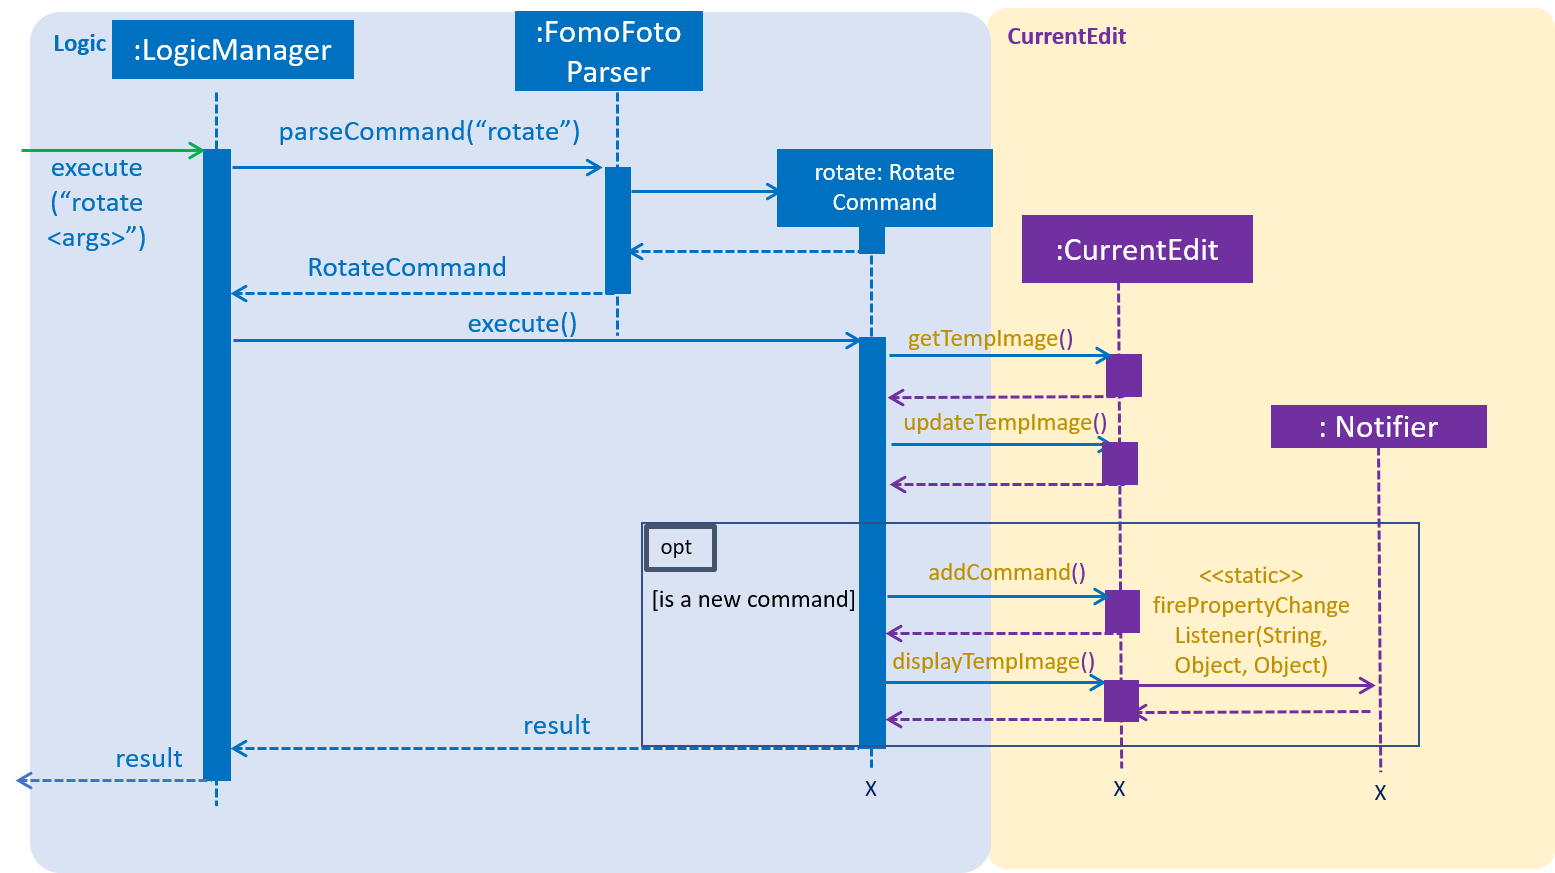
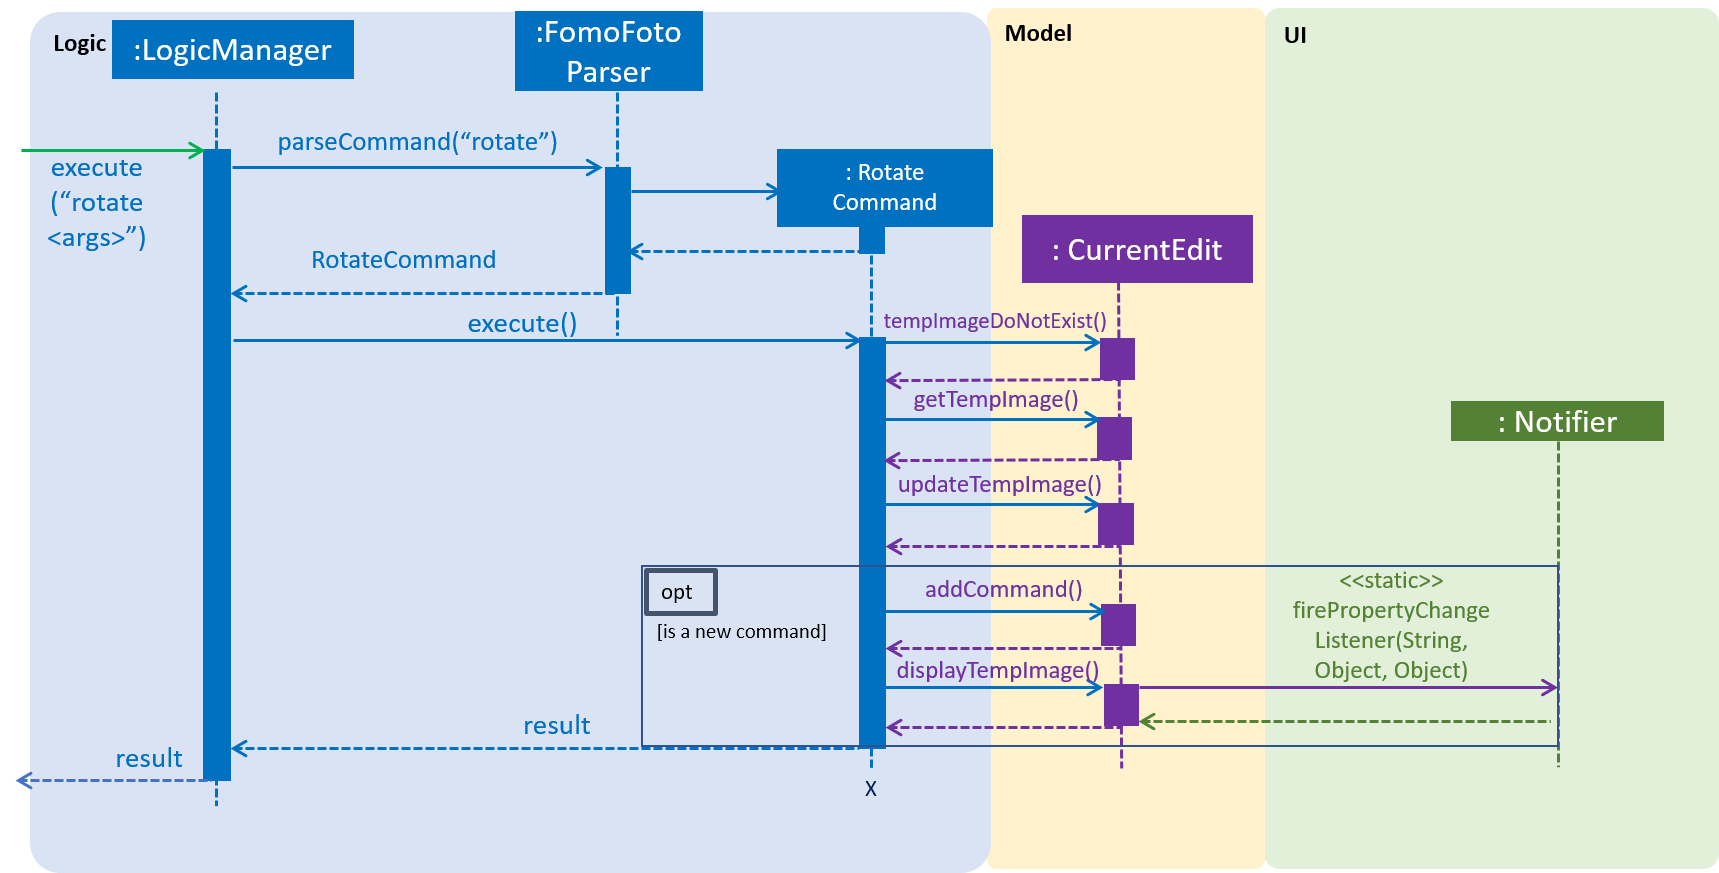
Rebuild pages at df354256378a5ea6b714257be6b3c44e9b145cd6

diff --git a/DeveloperGuide.html b/DeveloperGuide.html
@@ -1327,7 +1327,7 @@ If an invalid command is provided, a reminder of how to use the command will be 
 <p>Step 6. The <code>execute</code> method then checks if the boolean <code>isNewCommand</code> is true. If it is true, it indicates that the command is a new <code>Rotate</code> command called directly from the user and not through an <code>undo/redo</code> command which triggers Step 7 in the line below. Otherwise, the command’s execution ends in this step.</p>
 </div>
 <div class="paragraph">
-<p>Step 7. <code>isNewCommand</code> is set to false to signal that this command is not a new rotate command if it is executed again through the <code>Undo/Redo</code> function. <code>currentEdit#addCommand(this)</code> is invoked to add this command to the <code>List&lt;Command&gt;</code> in <code>tempImage</code> for the <code>undo/redo</code> function and <code>currentEdit#displayTempImage()</code> is used to display the edited image on the graphical user interface.<br></p>
+<p>Step 7. <code>isNewCommand</code> is set to false to signal that this command is not a new rotate command if it is executed again through the <code>undo/redo</code> command. <code>currentEdit#addCommand(this)</code> is invoked to add this command to the <code>List&lt;Command&gt;</code> in <code>tempImage</code> for the <code>undo/redo</code> function and <code>currentEdit#displayTempImage()</code> is used to display the edited image on the graphical user interface.<br></p>
 </div>
 <div class="paragraph">
 <p>The diagram below illustrates how the <code>Rotate</code> Command works:</p>
@@ -1344,7 +1344,7 @@ If an invalid command is provided, a reminder of how to use the command will be 
 <div class="ulist">
 <ul>
 <li>
-<p>Intermediate images have to be stored and edited in a temp directory first due to our <code>undo/redo</code> implementation.</p>
+<p>Images that are still being edited have to be stored and edited in a temp directory first due to our <code>undo/redo</code> implementation.</p>
 </li>
 </ul>
 </div>
@@ -1725,21 +1725,24 @@ Each image can only have 1 watermark. If the user would like to edit the waterma
 <div class="sect3">
 <h4 id="current-implementation-9"><a class="link" href="#current-implementation-9">3.11.1. Current Implementation</a></h4>
 <div class="paragraph">
-<p>The manipulation feature is facilitated by <code>CurrentEdit</code> and <code>Image</code>. It uses the following operations:</p>
+<p>The manipulation feature is facilitated by <code>CurrentEdit</code>. It uses the following operations:</p>
 </div>
 <div class="ulist">
 <ul>
 <li>
-<p><code>CurrentEdit#getTempImage()</code> - Retrieves the temporary image <code>tempImage</code> which stores the filepath of the temporary image in <code>temp</code> directory, its history of edits [<code>List&lt;Command&gt;</code>] and its metadata.</p>
+<p><code>CurrentEdit#tempImageDoNotExist()</code> - Returns <code>true</code> if <code>tempImage</code> in <code>CurrentEdit</code> is null. <code>tempImage</code> is null only if <code>open</code> command is never called.</p>
 </li>
 <li>
-<p><code>CurrenEdit#updateTempImage(BufferedImage)</code> - Replaces the temporary image in <code>temp</code> directory with the newly edited image and update the <code>tempImage</code> instance in the class.</p>
+<p><code>CurrentEdit#getTempImage</code> - Retrieves the temporary image <code>tempImage</code> which stores the filepath of the temporary image in the <code>temp</code> directory, its history of edits [<code>List&lt;Command&gt;</code>] and its metadata.</p>
 </li>
 <li>
-<p><code>CurrentEdit#addCommand(Command)</code> - Adds this command to the edit history [<code>List&lt;Command&gt;</code>] in <code>tempImage</code> for the undo/redo function.</p>
+<p><code>CurrentEdit#updateTempImage</code> - Replaces the temporary image in <code>temp</code> directory with the newly edited image and update the <code>tempImage</code> instance in the class.</p>
 </li>
 <li>
-<p><code>CurrenEdit#displayTempImage()</code> - Displays the temporary image stored in directory: "src/main/resources/temp/".</p>
+<p><code>CurrentEdit#addCommand</code> - Adds this command to the edit history [<code>List&lt;Command&gt;</code>] in <code>tempImage</code> for the <code>undo/redo</code> command.</p>
+</li>
+<li>
+<p><code>CurrentEdit#displayTempImage()</code> - Displays the temporary image stored in the <code>temp</code> directory.</p>
 </li>
 <li>
 <p><code>Image#hasWaterMark()</code> - Checks if the <code>Image</code> already has a watermark.</p>
@@ -1765,7 +1768,7 @@ Each image can only have 1 watermark. If the user would like to edit the waterma
 <i class="fa icon-note" title="Note"></i>
 </td>
 <td class="content">
-If an invalid command is provided, a reminder of how to use the command will be given to the user and no command will be run.
+If an invalid command is provided, a reminder of how to use the command will be given to the user and no command will be executed.
 </td>
 </tr>
 </table>
@@ -1774,7 +1777,7 @@ If an invalid command is provided, a reminder of how to use the command will be 
 <p>Step 3. During execution, the <code>execute</code> method in the <code>WaterMarkCommand</code> class invokes <code>currentEdit#getTempImage()</code> to get the <code>tempImage</code> from the <code>currentEdit</code>.</p>
 </div>
 <div class="paragraph">
-<p>Step 4. Upon retrieving the <code>tempImage</code>, the <code>execute</code> method in the <code>WaterMarkCommand</code> gets the  <code>BufferedImage</code> instance of the <code>tempImage</code> object and copies the <code>BufferedImage</code> object to a temporary <code>BufferedImage</code> object with the same width, height and image type. The <code>execute</code> method then initialises the necessary graphic properties using the <code>Graphics2D</code> Java class. The message is centralised and overlayed on the temporary <code>BufferedImage</code> object.</p>
+<p>Step 4. Upon retrieving the <code>tempImage</code>, the <code>execute</code> method in the <code>WaterMarkCommand</code> gets the  <code>BufferedImage</code> instance of the <code>tempImage</code> object and copies the <code>BufferedImage</code> object to a temporary <code>BufferedImage</code> object with the same width, height and image type. The <code>execute</code> method then initialises the necessary graphic properties using the <code>Graphics2D</code> Java class. The message is centralised and overlays the temporary <code>BufferedImage</code> object.</p>
 </div>
 <div class="paragraph">
 <p>Step 5. The <code>execute</code> method then checks for a few conditions listed below:</p>
@@ -1782,7 +1785,7 @@ If an invalid command is provided, a reminder of how to use the command will be 
 <div class="olist arabic">
 <ol class="arabic">
 <li>
-<p><code>isNewCommand</code>: Checks if the <code>WaterMark</code> command is from an input by the user, from an <code>Undo</code> or <code>Redo</code> command or from a <code>SetPreset</code> command.</p>
+<p><code>isNewCommand</code>: Checks if the <code>WaterMark</code> command is from an input by the user, from an <code>undo/redo</code> command or from a <code>SetPreset</code> command.</p>
 </li>
 <li>
 <p><code>isPreset</code>: Checks if the <code>WaterMark</code> command is from a Preset.</p>
@@ -1805,7 +1808,7 @@ If an invalid command is provided, a reminder of how to use the command will be 
 <p>Invokes <code>initialImage#setWaterMark(True)</code> to indicate that the image has a watermark.<br></p>
 </li>
 <li>
-<p>Invokes <code>currentEdit#updateTempImage()</code> to overwrite the current image in filepath: "src/main/resources/temp/" + <code>tempImage#getUrl</code> with a new <code>BufferedImage</code> object.</p>
+<p>Invokes <code>currentEdit#updateTempImage()</code> to  save the newly edited <code>BufferedImage</code> and replace the previous image in the filepath of the <code>tempImage</code>.</p>
 </li>
 <li>
 <p>Sets <code>isNewCommand</code> to false to signal that this command is not a new rotate command if it is executed again through the <code>undo/redo</code> function.</p>
@@ -1837,7 +1840,7 @@ If an invalid command is provided, a reminder of how to use the command will be 
 <p>Invokes <code>initialImage#setWaterMark(true)</code> to indicate that the image has a watermark.</p>
 </li>
 <li>
-<p>Invokes <code>currentEdit#updateTempImage()</code> to overwrite the current image in filepath: "src/main/resources/temp/" + <code>tempImage#getUrl</code> with a new <code>BufferedImage</code> object.</p>
+<p>Invokes <code>currentEdit#updateTempImage()</code> to save the newly edited <code>BufferedImage</code> and replace the previous image in the filepath of the <code>tempImage</code>.</p>
 </li>
 </ul>
 </div>
@@ -1853,7 +1856,7 @@ If an invalid command is provided, a reminder of how to use the command will be 
 <p>Invokes <code>initialImage#setWaterMark(true)</code> to indicate that the image has a watermark.</p>
 </li>
 <li>
-<p>Invokes <code>currentEdit#updateTempImage()</code> to overwrite the current image in filepath: "src/main/resources/temp/" + <code>tempImage#getUrl</code> with a new <code>BufferedImage</code> object.</p>
+<p>Invokes <code>currentEdit#updateTempImage()</code> to save the newly edited <code>BufferedImage</code> and replace the previous image in the filepath of the <code>tempImage</code>.</p>
 </li>
 </ul>
 </div>
@@ -1885,7 +1888,7 @@ If an invalid command is provided, a reminder of how to use the command will be 
 <div class="ulist">
 <ul>
 <li>
-<p>Intermediate images have to be stored and edited in a temp directory first due to our <code>undo/redo</code> implementation.</p>
+<p>Images that are still being edited have to be stored and edited in a temp directory first due to our <code>undo/redo</code> implementation.</p>
 </li>
 </ul>
 </div>
@@ -2872,4 +2875,4 @@ Expected: GUI should export the selected Album image to target directory.</p>
 </div>
 </div>
 </div>
-</div></div><div id="footer"><div class="container"><div id="footer-text">Last updated 2019-04-14 11:01:47 UTC</div></div></div></body></html>
+</div></div><div id="footer"><div class="container"><div id="footer-text">Last updated 2019-04-14 12:22:21 UTC</div></div></div></body></html>

diff --git a/team/kayheen.html b/team/kayheen.html
@@ -600,7 +600,7 @@ If an invalid command is provided, a reminder of how to use the command will be 
 <p>Step 6. The <code>execute</code> method then checks if the boolean <code>isNewCommand</code> is true. If it is true, it indicates that the command is a new <code>Rotate</code> command called directly from the user and not through an <code>undo/redo</code> command which triggers Step 7 in the line below. Otherwise, the command’s execution ends in this step.</p>
 </div>
 <div class="paragraph">
-<p>Step 7. <code>isNewCommand</code> is set to false to signal that this command is not a new rotate command if it is executed again through the <code>Undo/Redo</code> function. <code>currentEdit#addCommand(this)</code> is invoked to add this command to the <code>List&lt;Command&gt;</code> in <code>tempImage</code> for the <code>undo/redo</code> function and <code>currentEdit#displayTempImage()</code> is used to display the edited image on the graphical user interface.<br></p>
+<p>Step 7. <code>isNewCommand</code> is set to false to signal that this command is not a new rotate command if it is executed again through the <code>undo/redo</code> command. <code>currentEdit#addCommand(this)</code> is invoked to add this command to the <code>List&lt;Command&gt;</code> in <code>tempImage</code> for the <code>undo/redo</code> function and <code>currentEdit#displayTempImage()</code> is used to display the edited image on the graphical user interface.<br></p>
 </div>
 <div class="paragraph">
 <p>The diagram below illustrates how the <code>Rotate</code> Command works:</p>
@@ -617,7 +617,7 @@ If an invalid command is provided, a reminder of how to use the command will be 
 <div class="ulist">
 <ul>
 <li>
-<p>Intermediate images have to be stored and edited in a temp directory first due to our <code>undo/redo</code> implementation.</p>
+<p>Images that are still being edited have to be stored and edited in a temp directory first due to our <code>undo/redo</code> implementation.</p>
 </li>
 </ul>
 </div>
@@ -661,21 +661,24 @@ Each image can only have 1 watermark. If the user would like to edit the waterma
 <div class="sect3">
 <h4 id="current-implementation-2"><a class="link" href="#current-implementation-2">Current Implementation</a></h4>
 <div class="paragraph">
-<p>The manipulation feature is facilitated by <code>CurrentEdit</code> and <code>Image</code>. It uses the following operations:</p>
+<p>The manipulation feature is facilitated by <code>CurrentEdit</code>. It uses the following operations:</p>
 </div>
 <div class="ulist">
 <ul>
 <li>
-<p><code>CurrentEdit#getTempImage()</code> - Retrieves the temporary image <code>tempImage</code> which stores the filepath of the temporary image in <code>temp</code> directory, its history of edits [<code>List&lt;Command&gt;</code>] and its metadata.</p>
+<p><code>CurrentEdit#tempImageDoNotExist()</code> - Returns <code>true</code> if <code>tempImage</code> in <code>CurrentEdit</code> is null. <code>tempImage</code> is null only if <code>open</code> command is never called.</p>
 </li>
 <li>
-<p><code>CurrenEdit#updateTempImage(BufferedImage)</code> - Replaces the temporary image in <code>temp</code> directory with the newly edited image and update the <code>tempImage</code> instance in the class.</p>
+<p><code>CurrentEdit#getTempImage</code> - Retrieves the temporary image <code>tempImage</code> which stores the filepath of the temporary image in the <code>temp</code> directory, its history of edits [<code>List&lt;Command&gt;</code>] and its metadata.</p>
 </li>
 <li>
-<p><code>CurrentEdit#addCommand(Command)</code> - Adds this command to the edit history [<code>List&lt;Command&gt;</code>] in <code>tempImage</code> for the undo/redo function.</p>
+<p><code>CurrentEdit#updateTempImage</code> - Replaces the temporary image in <code>temp</code> directory with the newly edited image and update the <code>tempImage</code> instance in the class.</p>
 </li>
 <li>
-<p><code>CurrenEdit#displayTempImage()</code> - Displays the temporary image stored in directory: "src/main/resources/temp/".</p>
+<p><code>CurrentEdit#addCommand</code> - Adds this command to the edit history [<code>List&lt;Command&gt;</code>] in <code>tempImage</code> for the <code>undo/redo</code> command.</p>
+</li>
+<li>
+<p><code>CurrentEdit#displayTempImage()</code> - Displays the temporary image stored in the <code>temp</code> directory.</p>
 </li>
 <li>
 <p><code>Image#hasWaterMark()</code> - Checks if the <code>Image</code> already has a watermark.</p>
@@ -701,7 +704,7 @@ Each image can only have 1 watermark. If the user would like to edit the waterma
 <i class="fa icon-note" title="Note"></i>
 </td>
 <td class="content">
-If an invalid command is provided, a reminder of how to use the command will be given to the user and no command will be run.
+If an invalid command is provided, a reminder of how to use the command will be given to the user and no command will be executed.
 </td>
 </tr>
 </table>
@@ -710,7 +713,7 @@ If an invalid command is provided, a reminder of how to use the command will be 
 <p>Step 3. During execution, the <code>execute</code> method in the <code>WaterMarkCommand</code> class invokes <code>currentEdit#getTempImage()</code> to get the <code>tempImage</code> from the <code>currentEdit</code>.</p>
 </div>
 <div class="paragraph">
-<p>Step 4. Upon retrieving the <code>tempImage</code>, the <code>execute</code> method in the <code>WaterMarkCommand</code> gets the  <code>BufferedImage</code> instance of the <code>tempImage</code> object and copies the <code>BufferedImage</code> object to a temporary <code>BufferedImage</code> object with the same width, height and image type. The <code>execute</code> method then initialises the necessary graphic properties using the <code>Graphics2D</code> Java class. The message is centralised and overlayed on the temporary <code>BufferedImage</code> object.</p>
+<p>Step 4. Upon retrieving the <code>tempImage</code>, the <code>execute</code> method in the <code>WaterMarkCommand</code> gets the  <code>BufferedImage</code> instance of the <code>tempImage</code> object and copies the <code>BufferedImage</code> object to a temporary <code>BufferedImage</code> object with the same width, height and image type. The <code>execute</code> method then initialises the necessary graphic properties using the <code>Graphics2D</code> Java class. The message is centralised and overlays the temporary <code>BufferedImage</code> object.</p>
 </div>
 <div class="paragraph">
 <p>Step 5. The <code>execute</code> method then checks for a few conditions listed below:</p>
@@ -718,7 +721,7 @@ If an invalid command is provided, a reminder of how to use the command will be 
 <div class="olist arabic">
 <ol class="arabic">
 <li>
-<p><code>isNewCommand</code>: Checks if the <code>WaterMark</code> command is from an input by the user, from an <code>Undo</code> or <code>Redo</code> command or from a <code>SetPreset</code> command.</p>
+<p><code>isNewCommand</code>: Checks if the <code>WaterMark</code> command is from an input by the user, from an <code>undo/redo</code> command or from a <code>SetPreset</code> command.</p>
 </li>
 <li>
 <p><code>isPreset</code>: Checks if the <code>WaterMark</code> command is from a Preset.</p>
@@ -741,7 +744,7 @@ If an invalid command is provided, a reminder of how to use the command will be 
 <p>Invokes <code>initialImage#setWaterMark(True)</code> to indicate that the image has a watermark.<br></p>
 </li>
 <li>
-<p>Invokes <code>currentEdit#updateTempImage()</code> to overwrite the current image in filepath: "src/main/resources/temp/" + <code>tempImage#getUrl</code> with a new <code>BufferedImage</code> object.</p>
+<p>Invokes <code>currentEdit#updateTempImage()</code> to  save the newly edited <code>BufferedImage</code> and replace the previous image in the filepath of the <code>tempImage</code>.</p>
 </li>
 <li>
 <p>Sets <code>isNewCommand</code> to false to signal that this command is not a new rotate command if it is executed again through the <code>undo/redo</code> function.</p>
@@ -773,7 +776,7 @@ If an invalid command is provided, a reminder of how to use the command will be 
 <p>Invokes <code>initialImage#setWaterMark(true)</code> to indicate that the image has a watermark.</p>
 </li>
 <li>
-<p>Invokes <code>currentEdit#updateTempImage()</code> to overwrite the current image in filepath: "src/main/resources/temp/" + <code>tempImage#getUrl</code> with a new <code>BufferedImage</code> object.</p>
+<p>Invokes <code>currentEdit#updateTempImage()</code> to save the newly edited <code>BufferedImage</code> and replace the previous image in the filepath of the <code>tempImage</code>.</p>
 </li>
 </ul>
 </div>
@@ -789,7 +792,7 @@ If an invalid command is provided, a reminder of how to use the command will be 
 <p>Invokes <code>initialImage#setWaterMark(true)</code> to indicate that the image has a watermark.</p>
 </li>
 <li>
-<p>Invokes <code>currentEdit#updateTempImage()</code> to overwrite the current image in filepath: "src/main/resources/temp/" + <code>tempImage#getUrl</code> with a new <code>BufferedImage</code> object.</p>
+<p>Invokes <code>currentEdit#updateTempImage()</code> to save the newly edited <code>BufferedImage</code> and replace the previous image in the filepath of the <code>tempImage</code>.</p>
 </li>
 </ul>
 </div>
@@ -821,11 +824,11 @@ If an invalid command is provided, a reminder of how to use the command will be 
 <div class="ulist">
 <ul>
 <li>
-<p>Intermediate images have to be stored and edited in a temp directory first due to our <code>undo/redo</code> implementation.</p>
+<p>Images that are still being edited have to be stored and edited in a temp directory first due to our <code>undo/redo</code> implementation.</p>
 </li>
 </ul>
 </div>
 </div>
 </div>
 </div>
-</div></div><div id="footer"><div class="container"><div id="footer-text">Last updated 2019-04-14 11:01:47 UTC</div></div></div></body></html>
+</div></div><div id="footer"><div class="container"><div id="footer-text">Last updated 2019-04-14 12:22:22 UTC</div></div></div></body></html>

diff --git a/team/thamsimun.html b/team/thamsimun.html
@@ -474,4 +474,4 @@ If an invalid command is provided, a reminder of how to use the command will be 
 <div class="sectionbody">
 
 </div>
-</div></div><div id="footnotes"><hr><div class="footnote" id="_footnote_1"><a href="#_footnoteref_1">1</a>. Gradle is an open-source build automation tool that is designed to be flexible enough to build almost any type of software.</div></div><div id="footer"><div class="container"><div id="footer-text">Last updated 2019-04-14 11:01:47 UTC</div></div></div></body></html>
+</div></div><div id="footnotes"><hr><div class="footnote" id="_footnote_1"><a href="#_footnoteref_1">1</a>. Gradle is an open-source build automation tool that is designed to be flexible enough to build almost any type of software.</div></div><div id="footer"><div class="container"><div id="footer-text">Last updated 2019-04-14 12:22:22 UTC</div></div></div></body></html>

diff --git a/team/randytqw.html b/team/randytqw.html
@@ -476,4 +476,4 @@ If the <code>index</code> is at index <code>commandHistory.size()</code>, pointi
 <div class="sectionbody">
 
 </div>
-</div></div><div id="footer"><div class="container"><div id="footer-text">Last updated 2019-04-14 11:01:47 UTC</div></div></div></body></html>
+</div></div><div id="footer"><div class="container"><div id="footer-text">Last updated 2019-04-14 12:22:22 UTC</div></div></div></body></html>

diff --git a/LearningOutcomes.html b/LearningOutcomes.html
@@ -549,4 +549,4 @@ When the value represented by the <code>ObservableValue</code> changes, it will 
 </div>
 </div>
 </div>
-</div></div><div id="footer"><div class="container"><div id="footer-text">Last updated 2019-04-14 11:01:47 UTC</div></div></div></body></html>
+</div></div><div id="footer"><div class="container"><div id="footer-text">Last updated 2019-04-14 12:22:21 UTC</div></div></div></body></html>

diff --git a/team/carrein.html b/team/carrein.html
@@ -773,4 +773,4 @@ If FomoFoto is not given the permissions to write <code>assets</code> and <code>
 </div>
 </div>
 </div>
-</div></div><div id="footer"><div class="container"><div id="footer-text">Last updated 2019-04-14 11:01:47 UTC</div></div></div></body></html>
+</div></div><div id="footer"><div class="container"><div id="footer-text">Last updated 2019-04-14 12:22:22 UTC</div></div></div></body></html>

diff --git a/ContactUs.html b/ContactUs.html
@@ -12,4 +12,4 @@
 <p><strong>Email us</strong> : You can also reach us at <code>kayheen@u.nus.edu</code></p>
 </li>
 </ul>
-</div></div><div id="footer"><div class="container"><div id="footer-text">Last updated 2019-04-14 11:01:47 UTC</div></div></div></body></html>
+</div></div><div id="footer"><div class="container"><div id="footer-text">Last updated 2019-04-14 12:22:21 UTC</div></div></div></body></html>

diff --git a/UsingGradle.html b/UsingGradle.html
@@ -255,4 +255,4 @@ See <code>build.gradle</code> &#8594; <code>allprojects</code> &#8594; <code>dep
 </ul>
 </div>
 </div>
-</div></div><div id="footer"><div class="container"><div id="footer-text">Last updated 2019-04-14 11:01:47 UTC</div></div></div></body></html>
+</div></div><div id="footer"><div class="container"><div id="footer-text">Last updated 2019-04-14 12:22:21 UTC</div></div></div></body></html>

diff --git a/UsingNetlify.html b/UsingNetlify.html
@@ -123,4 +123,4 @@ The publish directory is the directory in which the built HTML documentation res
 </ol>
 </div>
 </div>
-</div></div><div id="footer"><div class="container"><div id="footer-text">Last updated 2019-04-14 11:01:47 UTC</div></div></div></body></html>
+</div></div><div id="footer"><div class="container"><div id="footer-text">Last updated 2019-04-14 12:22:21 UTC</div></div></div></body></html>

diff --git a/UsingCoveralls.html b/UsingCoveralls.html
@@ -96,4 +96,4 @@ If you have not set up Travis CI, see <a href="UsingTravis.html">UsingTravis.ado
 </ol>
 </div>
 </div>
-</div></div><div id="footer"><div class="container"><div id="footer-text">Last updated 2019-04-14 11:01:47 UTC</div></div></div></body></html>
+</div></div><div id="footer"><div class="container"><div id="footer-text">Last updated 2019-04-14 12:22:21 UTC</div></div></div></body></html>

diff --git a/UsingTravis.html b/UsingTravis.html
@@ -277,4 +277,4 @@ Suggested change: Remove the codacy badge from <code>README</code>.</p>
 </div>
 </div>
 </div>
-</div></div><div id="footer"><div class="container"><div id="footer-text">Last updated 2019-04-14 11:01:47 UTC</div></div></div></body></html>
+</div></div><div id="footer"><div class="container"><div id="footer-text">Last updated 2019-04-14 12:22:21 UTC</div></div></div></body></html>

diff --git a/UsingCheckstyle.html b/UsingCheckstyle.html
@@ -91,4 +91,4 @@ Restart the IDE to complete the installation.</p>
 </ul>
 </div>
 </div>
-</div></div><div id="footer"><div class="container"><div id="footer-text">Last updated 2019-04-14 11:01:47 UTC</div></div></div></body></html>
+</div></div><div id="footer"><div class="container"><div id="footer-text">Last updated 2019-04-14 12:22:21 UTC</div></div></div></body></html>
